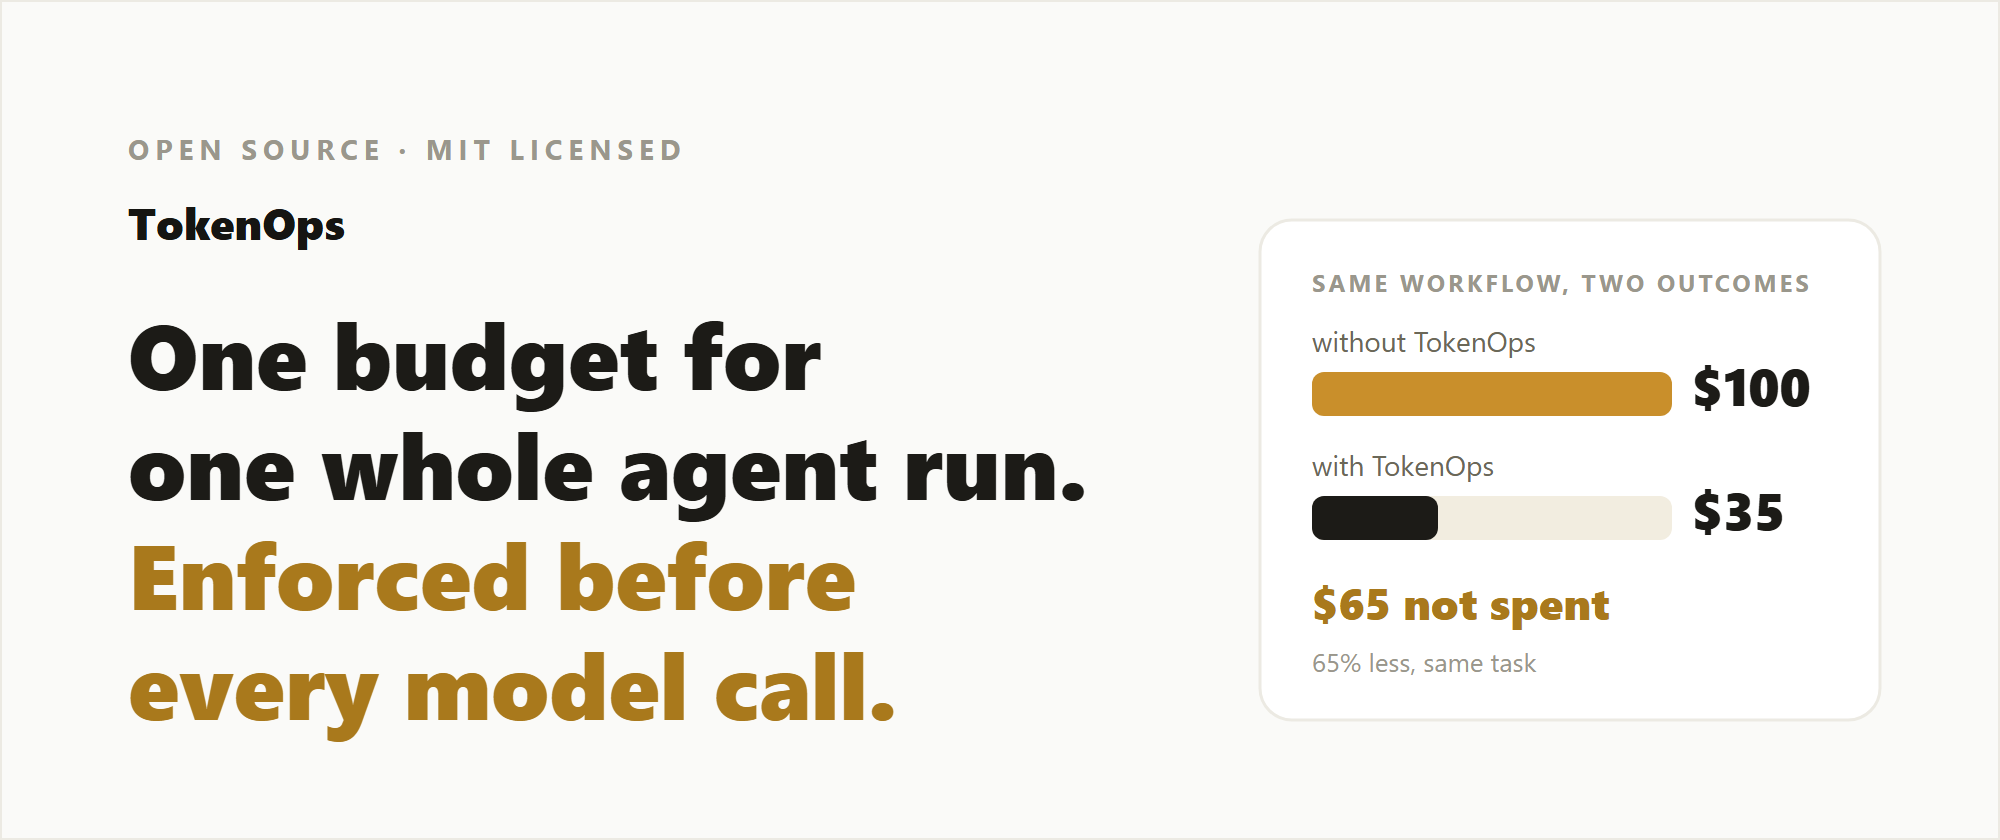
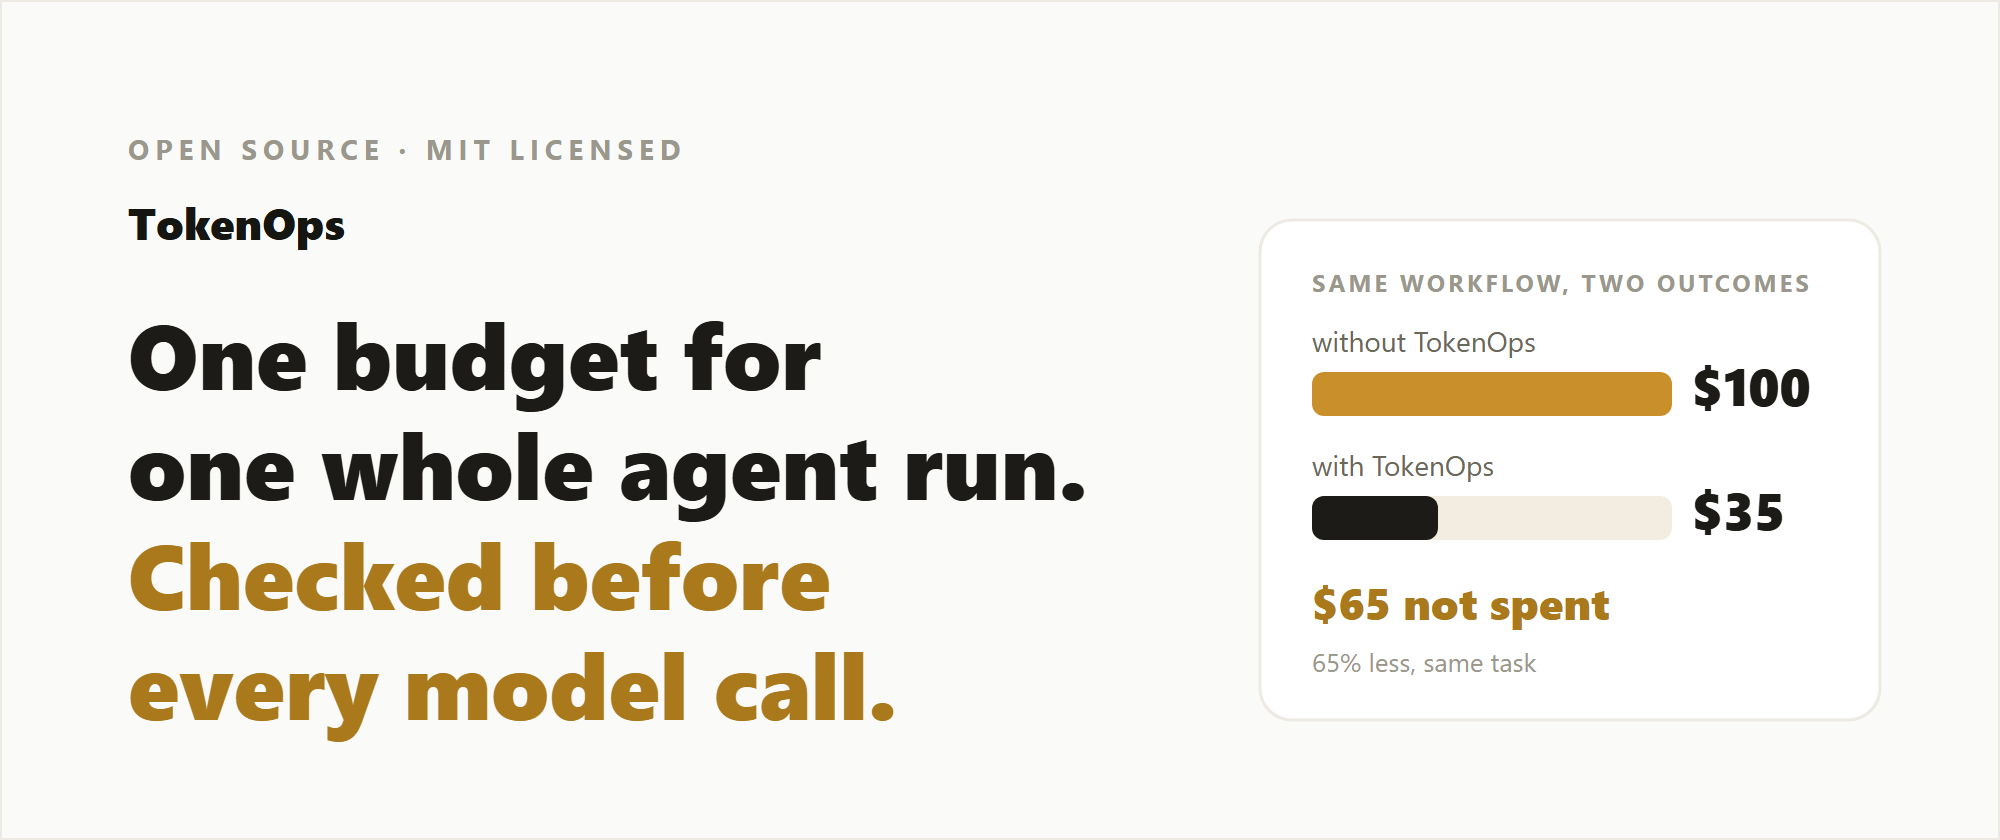
docs: say "checked" not "enforced" in hero copy
"Enforced" implies every over-budget call gets hard-blocked, but the
actual behavior is: TokenOps checks what the run has already spent
against the budget and configured policy before each call, and the
policy decides what happens next (halt, shrink the prompt, swap
models). "Checked" is what's actually true; "Enforced" overclaims.
Also makes the hero tagline explicit that it's checking accumulated
spend, not just a static limit, to match.

Changed region(s): [[0.062, 0.619, 0.434, 0.7429]]

diff --git a/README.md b/README.md
@@ -2,7 +2,7 @@
 
 # TokenOps
 
-**Cuts wasted agent spend by up to `65%`, checking the run's budget before every call.**<br>
+**Cuts wasted agent spend by up to `65%`, checking what the run has already spent before every call.**<br>
 <sub>Toward token governance as a first-class discipline, not an afterthought.</sub>
 
 [![PyPI](https://img.shields.io/pypi/v/agent-tokenops.svg)](https://pypi.org/project/agent-tokenops/)
